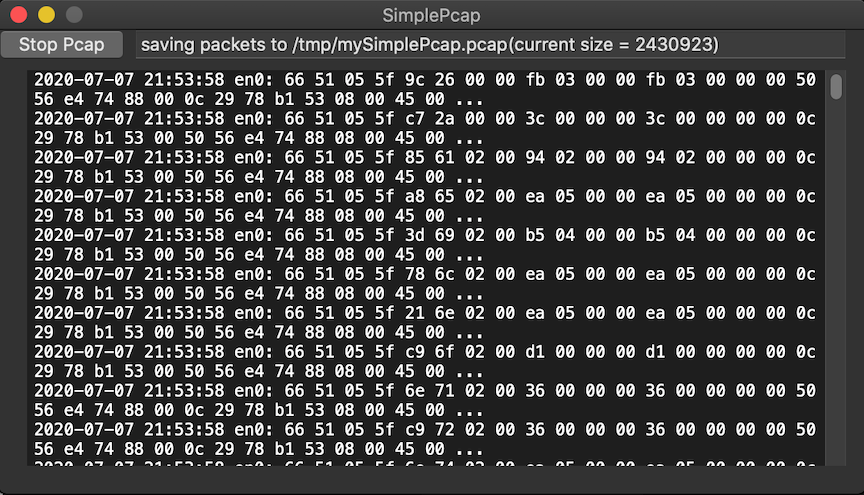
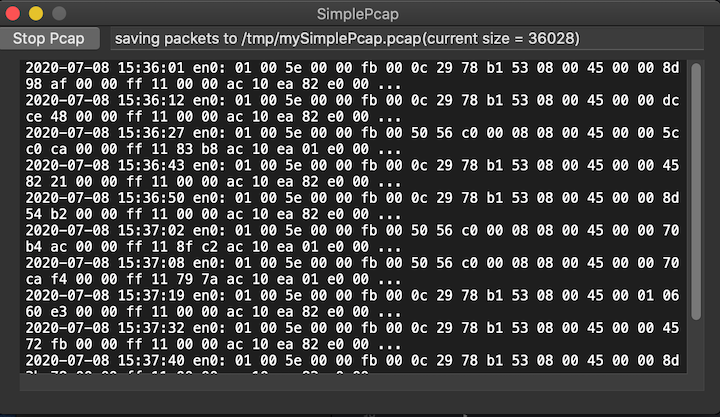
Bug fixes (#5)
* bug fixes

* Update README.md

* update pic

* bug fixes

* log

* fix bugs

* limit to ether

* refactor name

diff --git a/SimplePcap/SimplePcap/MainWindowController.swift b/SimplePcap/SimplePcap/MainWindowController.swift
@@ -17,8 +17,8 @@ class MainWindowController: NSWindowController {
     @IBOutlet weak var startButton: NSButton!
     @IBOutlet weak var stopButton: NSButton!
     @IBOutlet var logTextView: NSTextView!
-
-    var nSize: Int = 24
+    
+    var nLines:Int = 0
     
     enum Status {
         case stopped
@@ -197,6 +197,8 @@ class MainWindowController: NSWindowController {
                 }
             }
             self.status = .running
+            self.logTextView.string = ""
+            self.nLines = 0;
         }
     }
     
@@ -250,8 +252,7 @@ extension MainWindowController: OSSystemExtensionRequestDelegate {
 extension MainWindowController: AppCommunication {
 
     func showPacketInfo(withInfo pktInfo: String,
-                        withLength length: size_t,
-                        completionHandler: @escaping (Bool) -> Void) {
+                       completionHandler: @escaping (Bool) -> Void) {
 
         guard let font = NSFont.userFixedPitchFont(ofSize: 12.0) else {
             completionHandler(false)
@@ -263,17 +264,30 @@ extension MainWindowController: AppCommunication {
 
         let logAttributes: [NSAttributedString.Key: Any] = [ .font: font, .foregroundColor: NSColor.textColor ]
         let attributedString = NSAttributedString(string: dateString + pktInfo, attributes: logAttributes)
-        logTextView.textStorage?.append(attributedString)
-        nSize += length
-        let message = "saving packets to " + myPcapFileName + "(current size = " + String(nSize) + ")"
-        textField.stringValue = message
         
+        if (30 == nLines)
+        {
+            logTextView.string = ""
+            nLines = 0;
+        }
+
+        logTextView.textStorage?.append(attributedString)
+        nLines += 1
+
         completionHandler(true)
     }
     
     func showTextMessage(withMessage message: String,
                            completionHandler: @escaping (Bool) -> Void) {
 
+        textField.stringValue = message
+        
+        completionHandler(true)
+    }
+    
+    func showPcapSize(withSize pcapSize: size_t,
+                      completionHandler: @escaping (Bool) -> Void) {
+        let message = "saving packets to " + myPcapFileName + "(current size = " + String(pcapSize) + " bytes)"
         textField.stringValue = message
         
         completionHandler(true)

diff --git a/SimplePcap/SimplePcapExtension/FilterPacketProvider.m b/SimplePcap/SimplePcapExtension/FilterPacketProvider.m
@@ -27,6 +27,8 @@ typedef struct pcaprec_hdr_s {
         uint32_t orig_len;       /* actual length of packet */
 } pcaprec_hdr_t;
 
+extern size_t pcapSize;
+
 @implementation FilterPacketProvider
 
 - (void)startFilterWithCompletionHandler:(void (^)(NSError *error))completionHandler {
@@ -56,9 +58,9 @@ typedef struct pcaprec_hdr_s {
         [[IPCConnection shared] sendTextMessageToAppWithMessage:msg
                                           withCompletionHandler:^(bool success) {}];
     }
-    NSLog(@"(sizeof pcapHeader) = %lu", (sizeof pcapHeader));
     // end pcap initialization
 
+    pcapSize = sizeof(pcap_hdr_t);
     NSLog(@"startFilterWithCompletionHandler");
 
 	self.packetHandler = ^NEFilterPacketProviderVerdict(NEFilterPacketContext * _Nonnull context, nw_interface_t  _Nonnull interface, NETrafficDirection direction, const void * _Nonnull packetBytes, const size_t packetLength) {
@@ -86,8 +88,13 @@ typedef struct pcaprec_hdr_s {
                    withRawBytes: (const void *_Nonnull) packetBytes
                          length: (const size_t) packetLength
 {
-    NSString *interfaceName = [NSString stringWithCString:nw_interface_get_name(interface)
-                                                 encoding:NSUTF8StringEncoding];
+    nw_interface_type_t nicType = nw_interface_get_type(interface);
+    
+    // Only capture Ether traffic for now
+    if ((nw_interface_type_wired != nicType) && (nw_interface_type_wifi != nicType))
+    {
+        return;
+    }
 
     // write pcap
     NSFileHandle *file;
@@ -122,10 +129,15 @@ typedef struct pcaprec_hdr_s {
         [[IPCConnection shared] sendTextMessageToAppWithMessage:@"Failed to open file"
                                           withCompletionHandler:^(bool success) {}];
     }
+    pcapSize += packetLength + sizeof(pcaprec_hdr_t);
     // end write pcap
 
+    NSString *interfaceName = [NSString stringWithCString:nw_interface_get_name(interface)
+                                                 encoding:NSUTF8StringEncoding];
+
     [[IPCConnection shared] sendPacketToAppWithInterface:interfaceName
-                                         withPacketBytes:data
+                                           withTimeStamp:tv.tv_sec
+                                         withPacketBytes:packetBytes
                                               withLength:packetLength
                                    withCompletionHandler:^(bool success) {
                                      if (!success)

diff --git a/SimplePcap/SimplePcapExtension/IPCConnection.m b/SimplePcap/SimplePcapExtension/IPCConnection.m
@@ -10,6 +10,8 @@
 #import "IPCConnection.h"
 
 NSString *myPcapFileName = @"/tmp/mySimplePcap.pcap";
+long lastUpdateTime = 0;
+size_t pcapSize = 0;
 
 @implementation IPCConnection
 
@@ -135,7 +137,8 @@ shouldAcceptNewConnection:(NSXPCConnection *_Nonnull)newConnection
 }
 
 - (void)sendPacketToAppWithInterface:(NSString *_Nonnull)interface
-                     withPacketBytes:(NSData * _Nonnull)packetBytes
+                       withTimeStamp:(long)timeSeconds
+                     withPacketBytes:(const void *_Nonnull)packetBytes
                           withLength:(const size_t)packetLength
                withCompletionHandler:(void (^_Nonnull)(bool success))reply
 {
@@ -159,7 +162,7 @@ shouldAcceptNewConnection:(NSXPCConnection *_Nonnull)newConnection
     }
     
     // For simplicity, only send a small part of packet info for display on the UI
-    uint8_t *p = (uint8_t *)[packetBytes bytes];
+    uint8_t *p = (uint8_t *)packetBytes;
     NSMutableString *pktInfoString = [NSMutableString stringWithFormat:@"%@: ", interface];
     size_t len = 32;
     bool bAppend = true;
@@ -186,9 +189,25 @@ shouldAcceptNewConnection:(NSXPCConnection *_Nonnull)newConnection
         [pktInfoString appendString:@"\n"];
     }
     
-    [appProxy showPacketInfoWithInfo:pktInfoString
-                          withLength:packetLength
-                   completionHandler:reply];
+    if (timeSeconds - lastUpdateTime > 5) // limit update frequency
+    {
+        [appProxy showPcapSizeWithSize:pcapSize
+                     completionHandler:^(bool success) {
+                         if (!success)
+                         {
+                             NSLog(@"Unable to update pcap size with app.");
+                         }
+                     }];
+
+        // So far I don't try to update every packet with the UI
+        [appProxy showPacketInfoWithInfo:pktInfoString
+                       completionHandler:reply];
+
+        lastUpdateTime = timeSeconds;
+
+        NSLog(@"Update to pcap size = %lu", pcapSize);
+    }
+    
 }
 
 - (void)sendTextMessageToAppWithMessage:(NSString *_Nonnull)message

diff --git a/SimplePcap/SimplePcapExtension/IPCConnection.h b/SimplePcap/SimplePcapExtension/IPCConnection.h
@@ -23,11 +23,13 @@
 
 // This method shows the information about a packet on the UI
 - (void)showPacketInfoWithInfo:(NSString *_Nonnull)pktInfo
-                    withLength:(const size_t)packetLength
              completionHandler:(void (^_Nonnull)(bool success))reply;
 
 - (void)showTextMessageWithMessage:(NSString *_Nonnull)message
                  completionHandler:(void (^_Nonnull)(bool success))reply;
+
+- (void)showPcapSizeWithSize:(const size_t)pcapSize
+           completionHandler:(void (^_Nonnull)(bool success))reply;
 @end
 
 /// IPCConnection class is shared by both SimplePcap app and SimplePcapExtension to communicate with each other
@@ -54,7 +56,8 @@
     shouldAcceptNewConnection:(NSXPCConnection *_Nonnull)newConnection;
 
 - (void)sendPacketToAppWithInterface:(NSString *_Nonnull)interface
-                     withPacketBytes:(NSData * _Nonnull)packetBytes
+                       withTimeStamp:(long)timeSeconds
+                     withPacketBytes:(const void *_Nonnull)packetBytes
                           withLength:(const size_t)packetLength
                withCompletionHandler:(void (^_Nonnull)(bool success))reply;
 

diff --git a/README.md b/README.md
@@ -2,7 +2,7 @@
 
 This sample code is associated with my blog post [macOS vs. Windows - What the kernels tell you about security events: Part 2](https://www.elastic.co/blog/macos-windows-what-kernels-tell-you-about-security-events-part-2). It demonstrates the use of [NEFilterPacketProvider](https://developer.apple.com/documentation/networkextension/nefilterpacketprovider?language=objc) class of Apple's [Content Filter](https://developer.apple.com/documentation/networkextension/content_filter_providers?language=objc#topics) APIs announced in [WWDC 2019](https://developer.apple.com/videos/play/wwdc2019/714). The pcap capture demonstrated in this sample code is useful to debug your own Content Filter. This sample code project only runs on macOS. When the network extension in the sample is correctly built and run, it automatically generate a `mytest.pcap` file under `/tmp` folder. The pcap file captures all the network packets that go through your `NEFilterPacketProvider`.
 
-The network extension is implemented as part of the SimplePcap app. The app has a minimal UI for the user to start/stop the pcap and show some basic infomation about the pcap file. The UI is written in swift and the network extension is written in Objective-C. Following picture shows the app UI when the network extension is running:
+The network extension is implemented as part of the SimplePcap app. The app has a simple UI for the user to start/stop the pcap and show some basic infomation about the pcap file. The UI is written in Swift and the network extension is written in Objective-C. Following picture shows the app UI when the network extension is running:
 <img src="./SimplePcap.png">
 
 ## To clone this repo:
